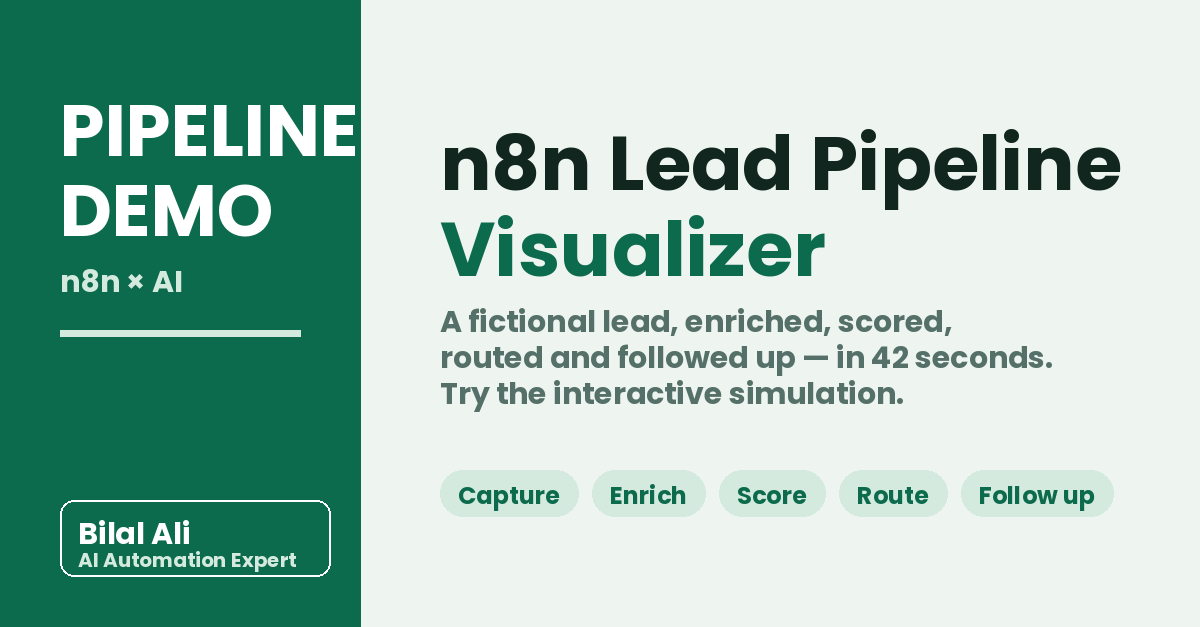
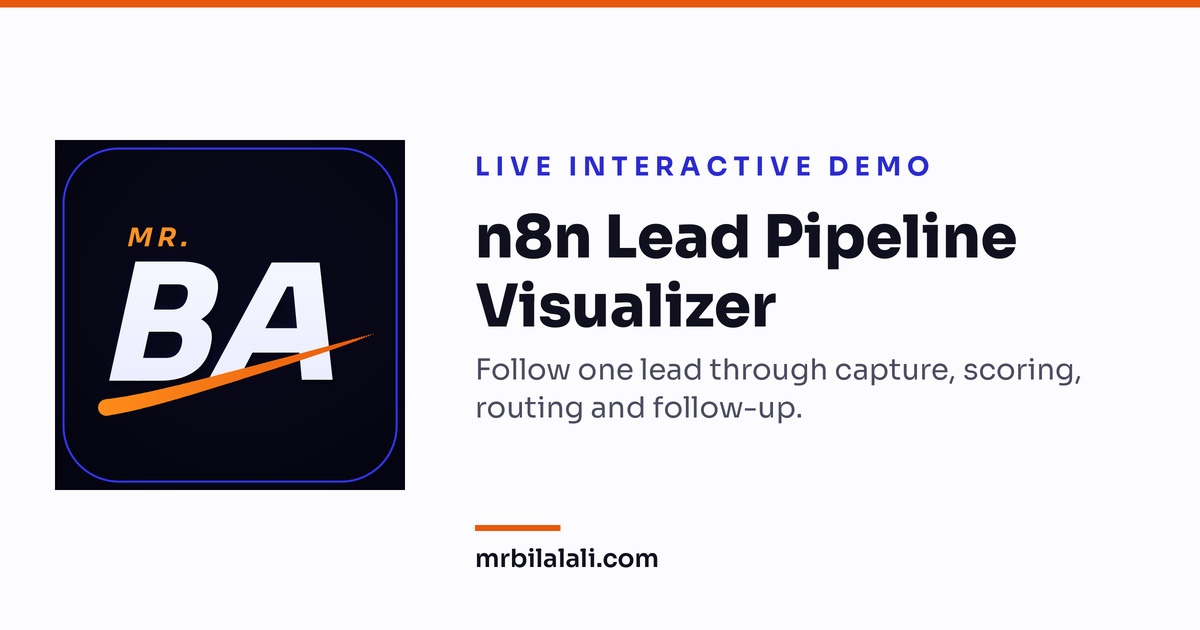
Retheme to the mrbilalali.com Emporio light theme (royal blue, orange CTA, Sora/Inter) + new OG card

diff --git a/index.html b/index.html
@@ -17,40 +17,45 @@
     <meta name="twitter:title" content="n8n Lead Pipeline Visualizer" />
     <meta name="twitter:description" content="Watch a fictional lead flow through an AI lead pipeline — enrichment, AI scoring, CRM routing, follow-up — in 42 seconds. Try the interactive simulation." />
     <meta name="twitter:image" content="https://n8n-lead-pipeline-visualizer-mr-bilal-alis-projects.vercel.app/og-image.png" />
+    <link rel="preconnect" href="https://fonts.googleapis.com" />
+    <link rel="preconnect" href="https://fonts.gstatic.com" crossorigin />
+    <link href="https://fonts.googleapis.com/css2?family=IBM+Plex+Mono:wght@500;600&family=Inter:wght@400;500;600;700&family=Sora:wght@600;700;800&display=swap" rel="stylesheet" />
     <style>
-      @import url('https://fonts.googleapis.com/css2?family=DM+Sans:wght@400;500;600;700&family=IBM+Plex+Mono:wght@500;600&display=swap');
 
       :root {
-        --bg: #eef4ef;
-        --surface: #f9fcf9;
-        --surface-2: #e4eee7;
-        --ink: #10261f;
-        --muted: #557068;
-        --line: #bfd0c5;
-        --accent: #0d6b4d;
-        --accent-2: #17956c;
-        --accent-soft: #d5eadf;
-        --warm: #c56732;
-        --warm-soft: #f3dfd2;
-        --shadow: 0 18px 55px rgba(26, 69, 53, .12);
-        --focus: #0d6b4d;
+        --bg: #fcfcff;
+        --surface: #ffffff;
+        --surface-2: #f4f5fe;
+        --ink: #10101e;
+        --muted: #4c4c60;
+        --line: #dddff2;
+        --accent: #2b2bd0;
+        --accent-2: #3233ef;
+        --accent-soft: #eef0fe;
+        --warm: #e8590c;
+        --warm-soft: #fdeee3;
+        --cta: #e8590c;
+        --cta-hover: #d9480f;
+        --success: #1f9d66;
+        --shadow: 0 18px 55px rgba(16, 16, 30, .1);
+        --focus: #3233ef;
       }
 
       @media (prefers-color-scheme: dark) {
         :root {
-          --bg: #0d1915;
-          --surface: #14231e;
-          --surface-2: #1a2f27;
-          --ink: #eef9f2;
-          --muted: #abc3b8;
-          --line: #365348;
-          --accent: #65d6a7;
-          --accent-2: #44bd8b;
-          --accent-soft: #1c4938;
-          --warm: #eea176;
-          --warm-soft: #553322;
+          --bg: #0a0a16;
+          --surface: #12121f;
+          --surface-2: #1b1b31;
+          --ink: #f4f4fa;
+          --muted: #a7a7c4;
+          --line: #2d2d4d;
+          --accent: #a5a5fb;
+          --accent-2: #8383f7;
+          --accent-soft: #23234d;
+          --warm: #ff8a4d;
+          --warm-soft: #46260f;
           --shadow: 0 18px 60px rgba(0, 0, 0, .28);
-          --focus: #8ae8bd;
+          --focus: #8383f7;
         }
       }
 
@@ -62,9 +67,11 @@
         min-height: 100vh;
         background: var(--bg);
         color: var(--ink);
-        font-family: "DM Sans", sans-serif;
+        font-family: "Inter", sans-serif;
         -webkit-font-smoothing: antialiased;
       }
+
+      h1, h2, h3 { font-family: "Sora", "Inter", sans-serif; }
 
       button, a { font: inherit; }
       button:focus-visible, a:focus-visible {
@@ -94,7 +101,7 @@
         background: color-mix(in srgb, var(--surface) 92%, transparent);
         border: 1px solid var(--line);
         border-radius: 999px;
-        box-shadow: 0 8px 25px rgba(26, 69, 53, .08);
+        box-shadow: 0 8px 25px rgba(16, 16, 30, .07);
         backdrop-filter: blur(10px);
         font-family: "IBM Plex Mono", monospace;
         font-size: 11px;
@@ -270,11 +277,11 @@
       .primary-button {
         width: 100%;
         color: #fff;
-        background: var(--accent);
-        box-shadow: 0 8px 20px color-mix(in srgb, var(--accent) 24%, transparent);
+        background: var(--cta);
+        box-shadow: 0 8px 20px color-mix(in srgb, var(--cta) 24%, transparent);
       }
-      @media (prefers-color-scheme: dark) { .primary-button { color: #082118; } }
-      .primary-button:hover, .book-button:hover { transform: translateY(-2px); }
+      @media (prefers-color-scheme: dark) { .primary-button { color: #fff; } }
+      .primary-button:hover, .book-button:hover { transform: translateY(-2px); background: var(--cta-hover); }
       .primary-button:disabled { opacity: .62; cursor: wait; transform: none; }
       .primary-button svg, .book-button svg, .secondary-button svg { width: 18px; height: 18px; }
 
@@ -332,7 +339,7 @@
         border-radius: 22px 22px 22px 8px;
         color: var(--muted);
         background: var(--surface);
-        box-shadow: 0 8px 20px rgba(26, 69, 53, .06);
+        box-shadow: 0 8px 20px rgba(16, 16, 30, .06);
         transition: color .25s ease, border-color .25s ease, background .25s ease, transform .25s ease, box-shadow .25s ease;
       }
       .node svg { width: 29px; height: 29px; }
@@ -368,7 +375,7 @@
         width: 21px;
         height: 21px;
         color: var(--surface);
-        background: var(--accent-2);
+        background: var(--success);
         border-radius: 50%;
         opacity: 0;
         transform: scale(.6);
@@ -459,7 +466,7 @@
         background: var(--accent);
         color: #fff;
       }
-      @media (prefers-color-scheme: dark) { .result { color: #082118; } }
+      @media (prefers-color-scheme: dark) { .result { color: #10101e; } }
       .result.visible { display: grid; grid-template-columns: minmax(0, 1.1fr) minmax(280px, .9fr); gap: 40px; align-items: center; }
       .result-tag { margin: 0 0 12px; font-family: "IBM Plex Mono", monospace; font-size: 11px; font-weight: 600; letter-spacing: .07em; text-transform: uppercase; opacity: .8; }
       .result h2 { margin: 0 0 14px; font-size: clamp(30px, 5vw, 52px); line-height: 1.02; letter-spacing: -.045em; }
@@ -472,8 +479,8 @@
       .cta-box { padding: 24px; color: var(--ink); background: var(--surface); border-radius: 6px 22px 22px 22px; }
       .cta-box h3 { margin: 0 0 8px; font-size: 22px; letter-spacing: -.02em; }
       .cta-box p { margin-bottom: 18px; color: var(--muted); font-size: 14px; }
-      .book-button { width: 100%; color: #fff; background: var(--accent); }
-      @media (prefers-color-scheme: dark) { .book-button { color: #082118; } }
+      .book-button { width: 100%; color: #fff; background: var(--cta); }
+      @media (prefers-color-scheme: dark) { .book-button { color: #fff; } }
       .secondary-button { width: 100%; margin-top: 10px; color: var(--accent); background: transparent; border: 1px solid var(--line); }
       .secondary-button:hover { background: var(--accent-soft); }
 
